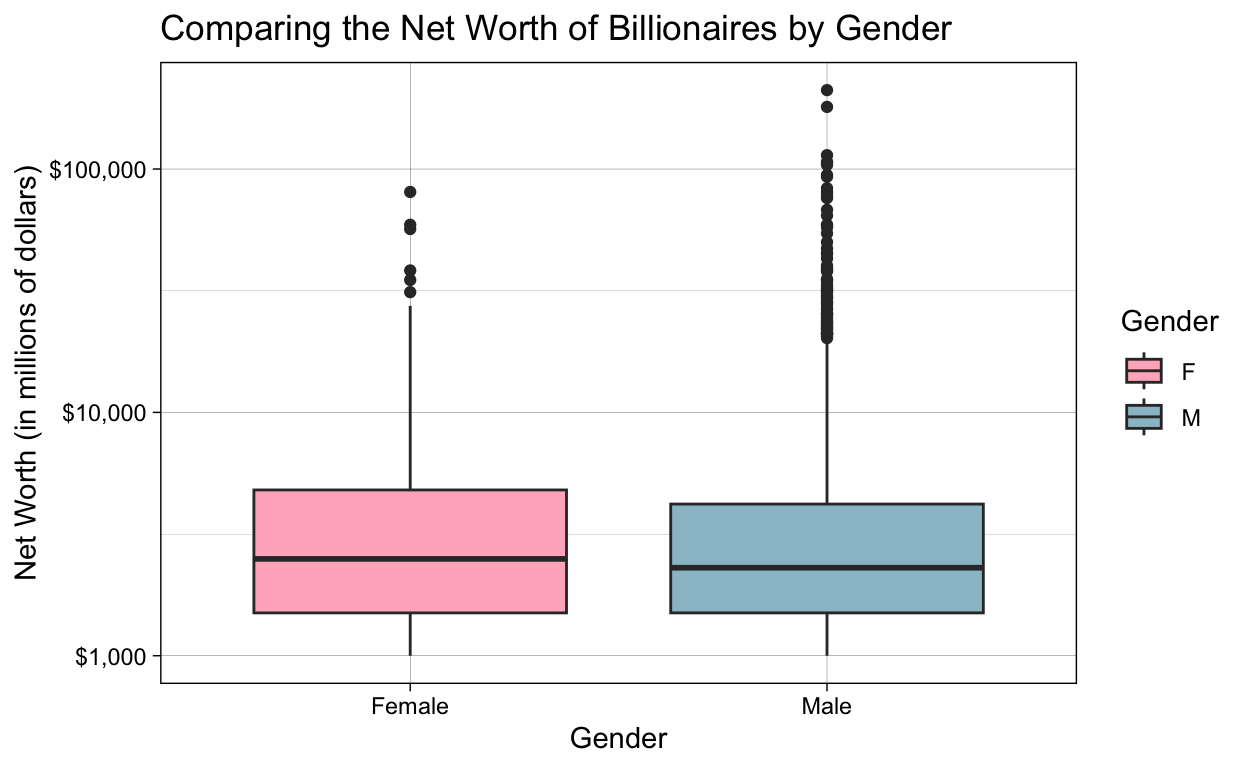
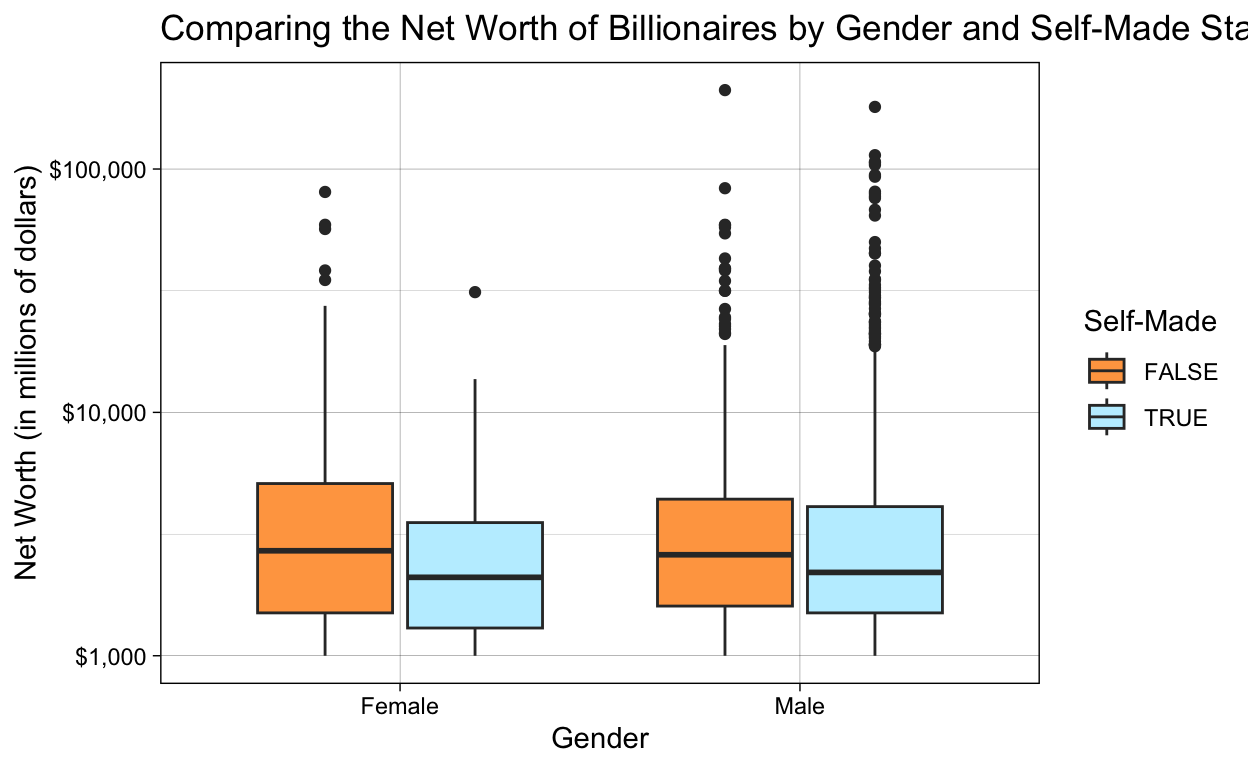
Milestone 4 Final

diff --git a/index.html b/index.html
@@ -88,29 +88,29 @@ code span.wa { color: #5e5e5e; font-style: italic; } /* Warning */
 
 
   <!--radix_placeholder_meta_tags-->
-  <title>Who becomes a billionaire and why?</title>
+  <title>Gov 50 Final Project</title>
 
-  <meta property="description" itemprop="description" content="Gov 50 Final Project"/>
+  <meta property="description" itemprop="description" content="Who Becomes a Billionaire? Why?"/>
 
 
   <meta name="article:author" content="Tosca Langbert"/>
 
   <!--  https://developers.facebook.com/docs/sharing/webmasters#markup -->
-  <meta property="og:title" content="Who becomes a billionaire and why?"/>
+  <meta property="og:title" content="Gov 50 Final Project"/>
   <meta property="og:type" content="article"/>
-  <meta property="og:description" content="Gov 50 Final Project"/>
+  <meta property="og:description" content="Who Becomes a Billionaire? Why?"/>
   <meta property="og:locale" content="en_US"/>
 
   <!--  https://dev.twitter.com/cards/types/summary -->
   <meta property="twitter:card" content="summary"/>
-  <meta property="twitter:title" content="Who becomes a billionaire and why?"/>
-  <meta property="twitter:description" content="Gov 50 Final Project"/>
+  <meta property="twitter:title" content="Gov 50 Final Project"/>
+  <meta property="twitter:description" content="Who Becomes a Billionaire? Why?"/>
 
   <!--/radix_placeholder_meta_tags-->
   <!--radix_placeholder_rmarkdown_metadata-->
 
   <script type="text/json" id="radix-rmarkdown-metadata">
-  {"type":"list","attributes":{"names":{"type":"character","attributes":{},"value":["title","author","description","output"]}},"value":[{"type":"character","attributes":{},"value":["Who becomes a billionaire and why?"]},{"type":"list","attributes":{},"value":[{"type":"list","attributes":{"names":{"type":"character","attributes":{},"value":["name"]}},"value":[{"type":"character","attributes":{},"value":["Tosca Langbert"]}]}]},{"type":"character","attributes":{},"value":["Gov 50 Final Project"]},{"type":"list","attributes":{"names":{"type":"character","attributes":{},"value":["distill::distill_article"]}},"value":[{"type":"list","attributes":{"names":{"type":"character","attributes":{},"value":["self_contained"]}},"value":[{"type":"logical","attributes":{},"value":[false]}]}]}]}
+  {"type":"list","attributes":{"names":{"type":"character","attributes":{},"value":["title","author","description","output"]}},"value":[{"type":"character","attributes":{},"value":["Gov 50 Final Project"]},{"type":"list","attributes":{},"value":[{"type":"list","attributes":{"names":{"type":"character","attributes":{},"value":["name"]}},"value":[{"type":"character","attributes":{},"value":["Tosca Langbert"]}]}]},{"type":"character","attributes":{},"value":["Who Becomes a Billionaire? Why?"]},{"type":"list","attributes":{"names":{"type":"character","attributes":{},"value":["distill::distill_article"]}},"value":[{"type":"list","attributes":{"names":{"type":"character","attributes":{},"value":["self_contained"]}},"value":[{"type":"logical","attributes":{},"value":[false]}]}]}]}
   </script>
   <!--/radix_placeholder_rmarkdown_metadata-->
   
@@ -1493,7 +1493,7 @@ code span.wa { color: #5e5e5e; font-style: italic; } /* Warning */
 <!--radix_placeholder_front_matter-->
 
 <script id="distill-front-matter" type="text/json">
-{"title":"Who becomes a billionaire and why?","description":"Gov 50 Final Project","authors":[{"author":"Tosca Langbert","authorURL":"#","affiliation":"&nbsp;","affiliationURL":"#","orcidID":""}]}
+{"title":"Gov 50 Final Project","description":"Who Becomes a Billionaire? Why?","authors":[{"author":"Tosca Langbert","authorURL":"#","affiliation":"&nbsp;","affiliationURL":"#","orcidID":""}]}
 </script>
 
 <!--/radix_placeholder_front_matter-->
@@ -1503,10 +1503,10 @@ code span.wa { color: #5e5e5e; font-style: italic; } /* Warning */
 <!--/radix_placeholder_site_before_body-->
 
 <div class="d-title">
-<h1>Who becomes a billionaire and why?</h1>
+<h1>Gov 50 Final Project</h1>
 <!--radix_placeholder_categories-->
 <!--/radix_placeholder_categories-->
-<p>Gov 50 Final Project</p>
+<p>Who Becomes a Billionaire? Why?</p>
 </div>
 
 <div class="d-byline">
@@ -1519,7 +1519,9 @@ code span.wa { color: #5e5e5e; font-style: italic; } /* Warning */
 <div class="d-article">
 <h2 id="introduction-and-research-question">Introduction and Research Question</h2>
 <p>In this project, I explore data about billionaires worldwide.
-I am interested in understanding what factors differentiate the “nouveau riche” and billionaires who inherited their wealth. Some variables I explore include whether there are specific industries or regions that are more strongly correlated with inherited on self-earned wealth.</p>
+I am interested in understanding what factors differentiate the “nouveau riche” from billionaires who inherited their wealth.
+My research question is: to what extent can self-made status explain whether someone becomes a billionaire? Are there more powerful explanatory variables related to personal characteristics of the billionaire, like their gender or age? Or are their more circumstantial characteristics that can account for their wealth, like the industry they’re in or their country of origin? How about something even more removed, like the tax rate or education rate of their country of origin?
+I hypothesize that circumstances of birth (e.g. someone’s gender, or whether they inherited their wealth) will better explain who becomes a billionaire than more “distant” variables, like their country of origin’s tax rate or education rate.</p>
 <div class="layout-chunk" data-layout="l-body">
 
 </div>
@@ -1725,6 +1727,7 @@ I am interested in understanding what factors differentiate the “nouveau riche
 </tbody>
 </table>
 </div>
+<p>Things get more interesting when we bring gender into the equation. In the data visualization below, we see that male and female billionaires perform comparatively well with one another. Although the average net worth of female billionaires trails that of their male counterparts by approximately $61 million USD, their median net worth is actually $200 million USD higher.</p>
 <div class="layout-chunk" data-layout="l-body">
 <p><img src="index_files/figure-html5/unnamed-chunk-7-1.png" width="624" /></p>
 </div>
@@ -1733,14 +1736,14 @@ I am interested in understanding what factors differentiate the “nouveau riche
 <colgroup>
 <col style="width: 6%" />
 <col style="width: 35%" />
-<col style="width: 33%" />
+<col style="width: 34%" />
 <col style="width: 23%" />
 </colgroup>
 <thead>
 <tr class="header">
 <th style="text-align: left;">Gender</th>
 <th style="text-align: right;">Average Net Worth (in millions USD)</th>
-<th style="text-align: right;">Median Net Worth (in millions USD</th>
+<th style="text-align: right;">Median Net Worth (in millions USD)</th>
 <th style="text-align: right;">Net Worth Standard Dev.</th>
 </tr>
 </thead>
@@ -1760,23 +1763,13 @@ I am interested in understanding what factors differentiate the “nouveau riche
 </tbody>
 </table>
 </div>
+<p>However, this picture is somewhat complicated by the fact that female billionaires are comparatively rare. In this dataset, fewer than 400 of the 2,640 recorded billionaires are female. Not only that, the majority of female billionaires inherited their wealth. This trend reverses for male billionaires, the majority of whom are self-made and did not inherit their wealth.</p>
 <div class="layout-chunk" data-layout="l-body">
 <p><img src="index_files/figure-html5/unnamed-chunk-9-1.png" width="624" /></p>
 </div>
-<div class="layout-chunk" data-layout="l-body">
-<p><img src="index_files/figure-html5/unnamed-chunk-10-1.png" width="624" /></p>
-</div>
+<p>It is also interesting to take a look at the geographic trends of where billionaires are from. Interestingly, over one fourth of the world’s billionaires are in the United States, which represents only about 4% of the world’s population. Only China comes close, with 20% of the world’s billionaires and 18% of the world’s population. In short, Americans are extremely overrepresented in the population of billionaires worldwide.</p>
 <div class="layout-chunk" data-layout="l-body">
 
-</div>
-<div class="layout-chunk" data-layout="l-body">
-<p><img src="index_files/figure-html5/unnamed-chunk-12-1.png" width="624" /></p>
-</div>
-<div class="layout-chunk" data-layout="l-body">
-<p><img src="index_files/figure-html5/unnamed-chunk-13-1.png" width="624" /></p>
-</div>
-<div class="layout-chunk" data-layout="l-body">
-<p><img src="index_files/figure-html5/unnamed-chunk-14-1.png" width="624" /></p>
 </div>
 <div class="layout-chunk" data-layout="l-body">
 <table>
@@ -1846,9 +1839,21 @@ I am interested in understanding what factors differentiate the “nouveau riche
 </tbody>
 </table>
 </div>
+<div class="layout-chunk" data-layout="l-body">
+<p><img src="index_files/figure-html5/unnamed-chunk-12-1.png" width="624" /></p>
+</div>
+<div class="layout-chunk" data-layout="l-body">
+<p><img src="index_files/figure-html5/unnamed-chunk-13-1.png" width="624" /></p>
+</div>
+<div class="layout-chunk" data-layout="l-body">
+<p><img src="index_files/figure-html5/unnamed-chunk-14-1.png" width="624" /></p>
+</div>
 <h2 id="conclusion">Conclusion</h2>
 <h2 id="bibliography">Bibliography</h2>
-<p>Source: <a href="https://www.kaggle.com/datasets/nelgiriyewithana/billionaires-statistics-dataset" class="uri">https://www.kaggle.com/datasets/nelgiriyewithana/billionaires-statistics-dataset</a></p>
+<p>Source: <a href="https://www.kaggle.com/datasets/nelgiriyewithana/billionaires-statistics-dataset" class="uri">https://www.kaggle.com/datasets/nelgiriyewithana/billionaires-statistics-dataset</a>, r package “countrycode”</p>
+<div class="layout-chunk" data-layout="l-body">
+
+</div>
 <div class="sourceCode" id="cb1"><pre class="sourceCode r distill-force-highlighting-css"><code class="sourceCode r"></code></pre></div>
 <!--radix_placeholder_article_footer-->
 <!--/radix_placeholder_article_footer-->
